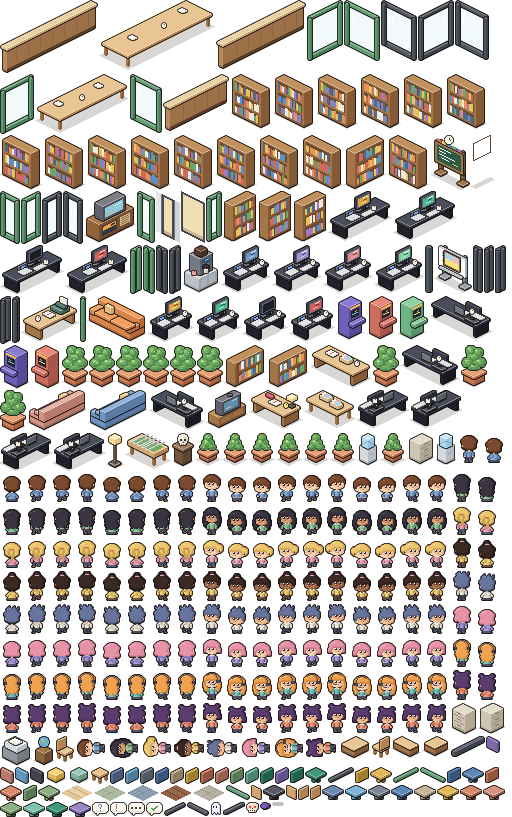
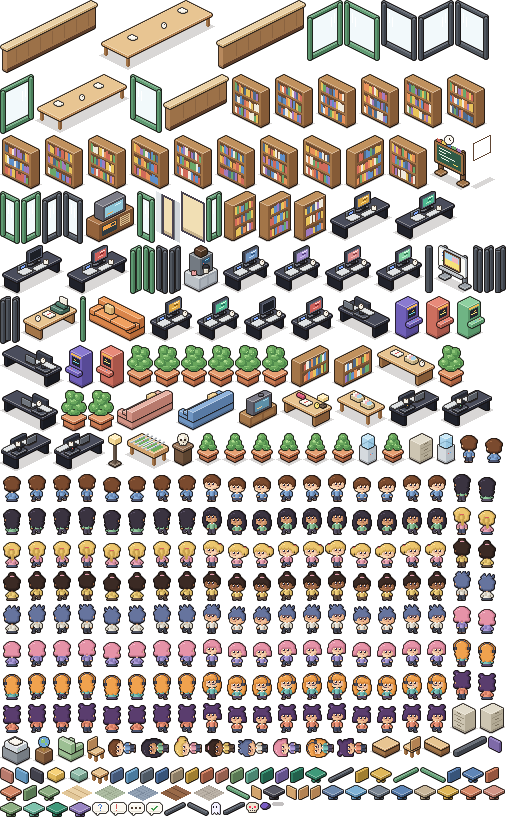
Casa: canto da Claude FM com a cara da sala antiga, Escrita mais à frente, computador do Você no meio da mesa

Changed region(s): [[0.0, 0.3366, 0.9688, 0.5508], [0.0938, 0.8874, 1.0, 0.9486]]

diff --git a/test/casa2d.test.ts b/test/casa2d.test.ts
@@ -198,7 +198,7 @@ describe('clique na Casa 2D', () => {
   it('o chão vazio e os móveis sem ação não abrem nada', () => {
     const floor = artToScreen(CASA.origin, 340, 200)
     expect(actAt(items, CASA.hot, floor, solid)).toBeNull()
-    const sofa = CASA.static.find((s) => s.fp[0] === 262 && s.fp[1] === 10)!
+    const sofa = CASA.static.find((s) => s.fp[0] === 290 && s.fp[1] === 10)!
     expect(actAt(items, CASA.hot, { x: sofa.x + 10, y: sofa.y + 10 }, solid)).toBeNull()
   })
 

diff --git a/scripts/pixel-art/scene_casa2.py b/scripts/pixel-art/scene_casa2.py
@@ -39,25 +39,26 @@ SEAT_ORDER = [0, 1, 2, 3]
 VOCE_DESK = (70, 266, 36)
 # footprints of the clickable furniture (export_app.py tags the items with these)
 SKULL = (146, 20, 154, 28)
-# Claude FM: in the media room's reading corner, against the half wall, the pink sofa facing it
+# Claude FM: the old living room in the media room's corner: the console on the half wall, the pink
+# sofa facing it, the green armchair, the low table and the cream rug
 RADIO = (228, 12, 240, 46)
-READ_SOFA = (262, 10, 276, 50)
+READ_SOFA = (290, 10, 304, 50)
 # the 'Rotinas de agentes' board hangs on the west wall of Luna's table room (plane x=0): y0, y1, z0, z1, clear of the window
 TOTEM_WALL = (168, 184, 26, 42)
 TOTEM = (0, 168, 2, 184)
 # the window on the west wall by the user's corner: y0, y1, z0, z1 (the glass is drawn by the app: morning, day, evening, night)
 WINDOW = (192, 262, 20, 50)
 # the writing desk: in front of the last bookshelf, its west edge on the shelf's
-WRITING = (352, 10, 368, 46)
+WRITING = (352, 24, 368, 60)
 FILMS_TV = (228, 120, 238, 146)
 ARCADES = [(228, 216, 238, 228), (228, 232, 238, 244), (228, 248, 238, 260)]
 SHELVES = [(x, 0, x + 28, 8) for x in range(232, 380, 30)]
 # where idle agents of the Casa sit or play: x, y (art units), the point they look at, kind
 HANG = [
-    (269, 20, (234, 29), 'sit'), (269, 40, (234, 29), 'sit'),      # reading sofa, facing the Claude FM
+    (297, 20, (234, 29), 'sit'), (297, 40, (234, 29), 'sit'),      # reading sofa, facing the Claude FM
     (299, 124, (233, 133), 'sit'), (299, 144, (233, 133), 'sit'),  # Filmes sofa, facing the TV
     (246, 222, (233, 222), 'play'), (246, 238, (233, 238), 'play'), (246, 254, (233, 254), 'play'),  # arcades
-    (258, 238, (233, 238), 'stand'), (250, 56, (234, 29), 'stand'),
+    (258, 238, (233, 238), 'stand'), (240, 62, (234, 29), 'stand'),
     (26, 150, (9, 149), 'stand'),                                  # coffee corner of the office
 ]
 # names shown when the pointer is over a part of the floor (tiles: x0, y0, x1, y1)
@@ -113,7 +114,7 @@ def shell(L):
     F.frame_x(L, 0, 88, 98, 30, 42, art=('9cc4dc', 'f6e27a', '8cc477'))
     F.frame_x(L, 0, 112, 132, 22, 44, art=('f2c58a', 'fbf3e0', 'e86a5a'), fr='5f7fb4')
     F.rug(L, *DESK_RUG, H('9fb7d6'), H('809cc2'), H('e4eaf6'))
-    F.rug(L, 230, 10, 296, 64, H('d9a0a0'), H('b87a7a'), H('f6dcd0'))
+    F.rug(L, 244, 10, 328, 72, H('e7c39a'), H('cf9f72'), H('fbe9c8'))
     F.rug(L, 230, 100, 330, 168, H('a9b8d8'), H('8698c0'), H('e4eaf6'))
     F.rug(L, 230, 210, 300, 280, H('f2d6a0'), H('dcb880'), H('fbf3e0'))
 
@@ -186,11 +187,12 @@ def media(sc, people=True):
     L, add = sc.L, sc.add
     for fp in SHELVES:
         add(fp, lambda x=fp[0]: F.bookshelf(L, x, 0, 28), True)
-    # reading corner: the Claude FM on the half wall, a low table, the pink sofa facing it
+    # Claude FM corner, as the old living room: console, low table, green armchair, pink sofa, lamp
     add(RADIO, lambda: G.radio_tv(L, *RADIO[:2]), True)
-    add((246, 22, 256, 34), lambda: G.low_table(L, 246, 22, 10, 12), True)
+    add((258, 22, 270, 36), lambda: G.low_table(L, 258, 22, 12, 14), True)
+    add((258, 44, 270, 56), lambda: G.armchair(L, 258, 44, '-y', T('b9d3b0', '9cbf93', '7fa277')), True)
     add(READ_SOFA, lambda: F.sofa_mx(L, *READ_SOFA[:2], T('e7b3a6', 'd39486', 'b87a6d'), 40), True)
-    add((282, 12, 288, 18), lambda: F.lamp(L, 282, 12), True)
+    add((316, 14, 322, 20), lambda: F.lamp(L, 316, 14), True)
     # Escrita: in front of the last bookshelf
     wx, wy = WRITING[:2]
     add(WRITING, lambda: (F.desk(L, wx, wy, 16, 36), G.typewriter(L, wx + 3, wy + 4, 12),
@@ -224,7 +226,7 @@ def build():
     office(sc)
     luna_table(sc)
     x, y, w = VOCE_DESK
-    ws_front_y(sc, x, y, 0, VOCE_LOOK[1], w=w, head='voce', col=F.CHAIRS[VOCE_LOOK[0]])
+    ws_front_y(sc, x, y, 0, VOCE_LOOK[1], w=w, head='voce', col=F.CHAIRS[VOCE_LOOK[0]], centered=True)
     voce_corner(sc)
     half_wall(sc, 1)
     media(sc)
@@ -237,7 +239,7 @@ def build():
     sc.label('Claude FM', 234, 29, 34)
     sc.label('Escritório', 124, 40)
     sc.label('Mesa da Luna', 124, 130)
-    mx, my = L.P(78, 270, 34)
+    mx, my = L.P(68, 270, 34)
     sc.labels.append(('Novo agente', mx + 2, int(my) - 18))
     vx, vy = L.P(98, 262, 0)
     sc.labels.append(('Você', vx + 22, int(vy) - 6))

diff --git a/scripts/pixel-art/export_app.py b/scripts/pixel-art/export_app.py
@@ -31,7 +31,7 @@ from floorkit import SW, SH, OX, OY, TS, W, D, WALL_H, PART_H, Scene, new_layer,
 import scene_projeto as P
 import scene_casa2 as C
 import scene_estudos as E
-from desks import ws_back, ws_front_x, ws_front_y
+from desks import ws_back, ws_front_x, ws_front_y, ws_front_shift
 from chars import sprite, VARIANTS, palette
 
 APP = os.path.join(os.path.dirname(os.path.dirname(os.path.dirname(os.path.abspath(__file__)))),
@@ -416,7 +416,7 @@ def casa(L, place, items, seat):
     for i, (dx, dy) in enumerate(C.DESKS):
         sc.add((dx, dy, dx + 14, dy + C.DESK_D), lambda dx=dx, dy=dy, i=i: C.work_desk(L, dx, dy, C.TABLE_LOOK[i][1]), True)
     x, y, w = C.VOCE_DESK
-    ws_front_y(sc, x, y, None, C.VOCE_LOOK[1], w=w)
+    ws_front_y(sc, x, y, None, C.VOCE_LOOK[1], w=w, centered=True)
     sc.rec.pop()  # the user's chair is a seat below
     C.voce_corner(sc)
     C.media(sc, people=False)
@@ -441,7 +441,7 @@ def casa(L, place, items, seat):
     tags = {n: [(a + b) / 2, 0, 46] for a, b, _act, n in C.BOARDS}
     tags.update({
         'Claude FM': [C.RADIO[0] + 6, C.RADIO[1] + 17, 34], 'Caveira': [150, 24, 34], 'Rotinas de agentes': [2, 176, 46],
-        'Novo agente': [80, 270, 40], 'Livros': [306, 4, 44], 'Escrita': [(C.WRITING[0] + C.WRITING[2]) / 2, C.WRITING[1] + 18, 30],
+        'Novo agente': [70, 270, 40], 'Livros': [306, 4, 44], 'Escrita': [(C.WRITING[0] + C.WRITING[2]) / 2, C.WRITING[1] + 18, 30],
         'Filmes': [233, 133, 34], 'Jogos': [233, 238, 38], 'Gastos': [218, 0, 54], 'Alarme': [168, 0, 54],
     })
     # Luna's chair first, then the residents' in the order the approved art fills them
@@ -478,7 +478,7 @@ def casa(L, place, items, seat):
         'tags': tags,
         'tv': tv,
         'table': {'center': [C.TABLE[0] + C.TABLE[2] / 2, C.TABLE[1] + C.TABLE[3] / 2], 'seats': seats},
-        'voce': {'seat': seat('casa/voce', x + w - 13, y - 12, '+y', col=F.CHAIRS[C.VOCE_LOOK[0]]), 'desk': [x, y, x + w, y + 14]},
+        'voce': {'seat': seat('casa/voce', x + w - 13 - ws_front_shift(w, True), y - 12, '+y', col=F.CHAIRS[C.VOCE_LOOK[0]]), 'desk': [x, y, x + w, y + 14]},
         'hang': [{'at': [hx, hy], 'look': list(look), 'kind': kind} for hx, hy, look, kind in C.HANG],
         'zones': [{'name': n, 'rect': list(r)} for n, r in C.ZONES],
         'elevator': {'tile': [ex0 // TS, 1], 'point': [(ex0 + ex1) / 2 / TS, 0.45], 'door': [ex0, ex1, 40],

diff --git a/scripts/pixel-art/desks.py b/scripts/pixel-art/desks.py
@@ -40,17 +40,25 @@ def ws_back(sc, x, y, vi, state, head=None, d_=26, col=F.CHAIR):
     return cx + 5, cy + 5
 
 
-def ws_front_y(sc, x, y, vi, state, w=34, head=None, col=F.CHAIR):
-    """desk long along x at (x,y) w x 14; agent north of it facing +y (FL); monitor (back to us) in front of the wall side."""
+def ws_front_shift(w, centered):
+    """how far west the set of ws_front_y moves to sit in the middle of the desk."""
+    return int(w / 2 - 8) if centered else 0
+
+
+def ws_front_y(sc, x, y, vi, state, w=34, head=None, col=F.CHAIR, centered=False):
+    """desk long along x at (x,y) w x 14; agent north of it facing +y (FL); monitor (back to us) in front of the wall side.
+    centered: the monitor, keyboard and chair in the middle of the desk instead of at its east end."""
     L = sc.L
+    x0 = x
+    x = x - ws_front_shift(w, centered)
 
     def d():
-        graphite(L, x, y, w, 14)
+        graphite(L, x0, y, w, 14)
         F.crt(L, x + w - 14, y + 8, 12, '-y', state, 1)
         G.laptop(L, x + w - 24, y + 5, 12, '-y', '82aaff')
         F.keyboard(L, x + w - 13, y + 2, 12)
         F.mug(L, x + w - 16, y + 2, 12)
-    sc.add((x, y, x + w, y + 14), d, True)
+    sc.add((x0, y, x0 + w, y + 14), d, True)
     cx, cy = x + w - 13, y - 12
 
     def c():
